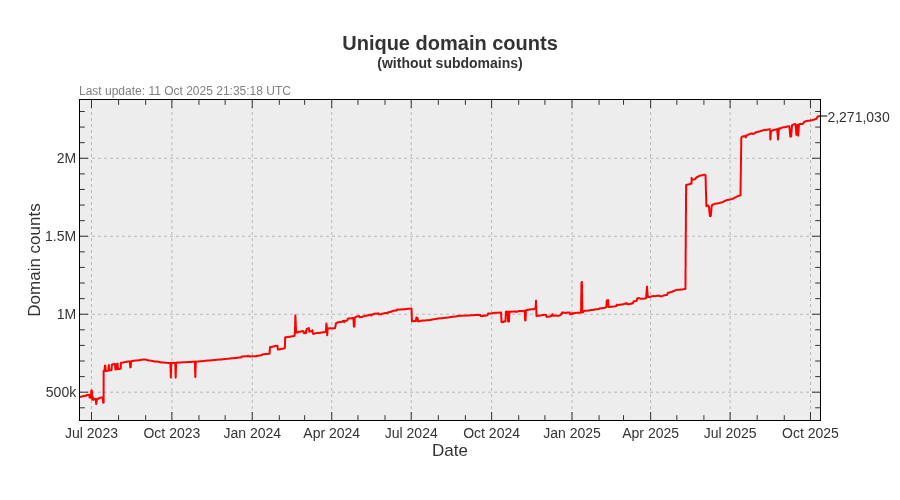
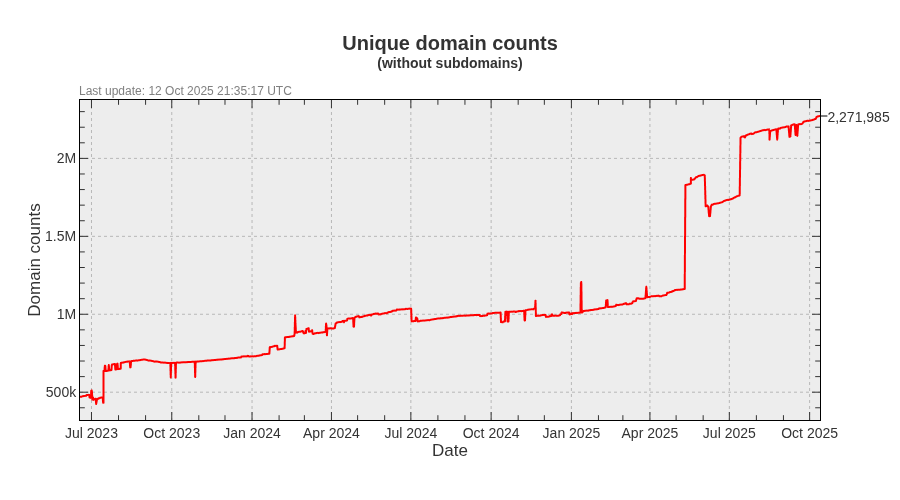
Update pages

diff --git a/README.md b/README.md
@@ -3,22 +3,22 @@ A blocklist file for blocking ads, trackers and malware domains.
 
[1 lines of base64/hex data omitted]
 
-- Unique domains: 2,955,360
-- Without subdomains: 2,271,030
-- Last update: 11 Oct 2025 21:35:18 UTC
-- Version: 2025.10.11.01
+- Unique domains: 2,956,291
+- Without subdomains: 2,271,985
+- Last update: 12 Oct 2025 21:35:17 UTC
+- Version: 2025.10.12.01
 
 
 ### Downloads:
 
 | Format             | Domain count      | Download Link |
 |:------------------ | -----------------:|:-------------:|
-| *Adblock Plus*     | 2,271,030 | [Download](https://dl.cenk.app/bad-hosts/bad-hosts-abp) |
-| *Wildcard domains* | 2,271,030 | [Download](https://dl.cenk.app/bad-hosts/bad-hosts-wildcard) |
-| *dnsmasq*          | 2,271,030 | [Download](https://dl.cenk.app/bad-hosts/bad-hosts-dnsmasq) |
-| *hosts*            | 2,955,360 | [Download](https://dl.cenk.app/bad-hosts/hosts) |
-| *hosts (ipv6)*     | 2,955,360 | [Download](https://dl.cenk.app/bad-hosts/hosts-ipv6) |
-| *Plain domains*    | 2,955,360 | [Download](https://dl.cenk.app/bad-hosts/bad-hosts-domains) |
+| *Adblock Plus*     | 2,271,985 | [Download](https://dl.cenk.app/bad-hosts/bad-hosts-abp) |
+| *Wildcard domains* | 2,271,985 | [Download](https://dl.cenk.app/bad-hosts/bad-hosts-wildcard) |
+| *dnsmasq*          | 2,271,985 | [Download](https://dl.cenk.app/bad-hosts/bad-hosts-dnsmasq) |
+| *hosts*            | 2,956,291 | [Download](https://dl.cenk.app/bad-hosts/hosts) |
+| *hosts (ipv6)*     | 2,956,291 | [Download](https://dl.cenk.app/bad-hosts/hosts-ipv6) |
+| *Plain domains*    | 2,956,291 | [Download](https://dl.cenk.app/bad-hosts/bad-hosts-domains) |
 
 ### Domain count history
 #### With subdomains
